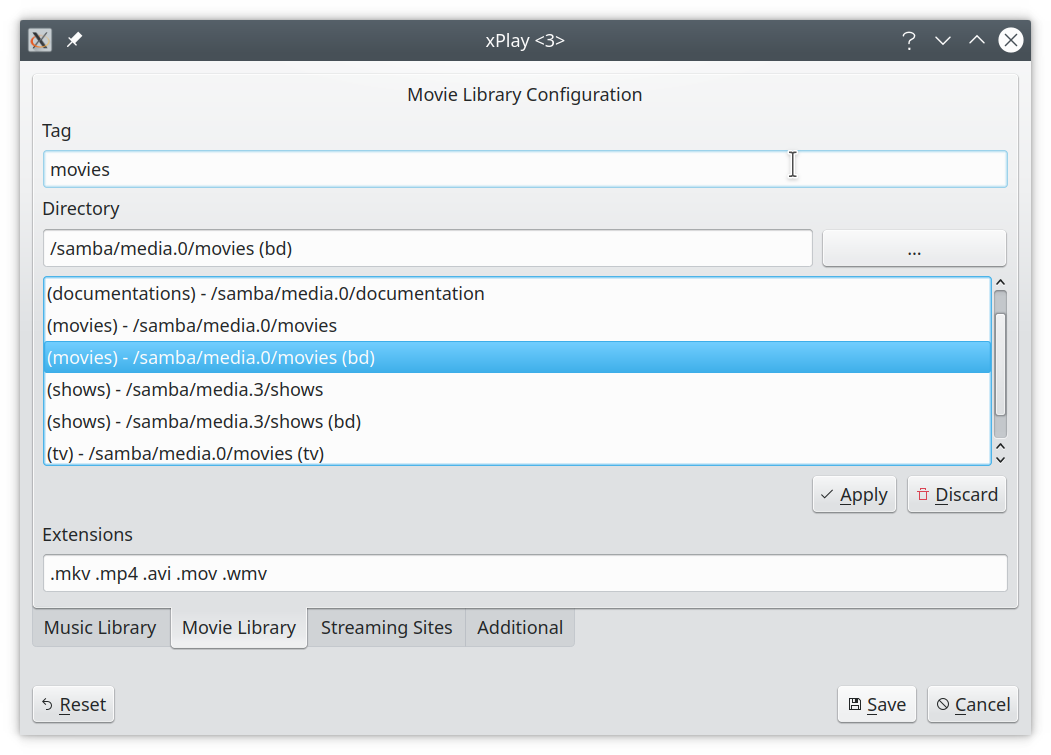
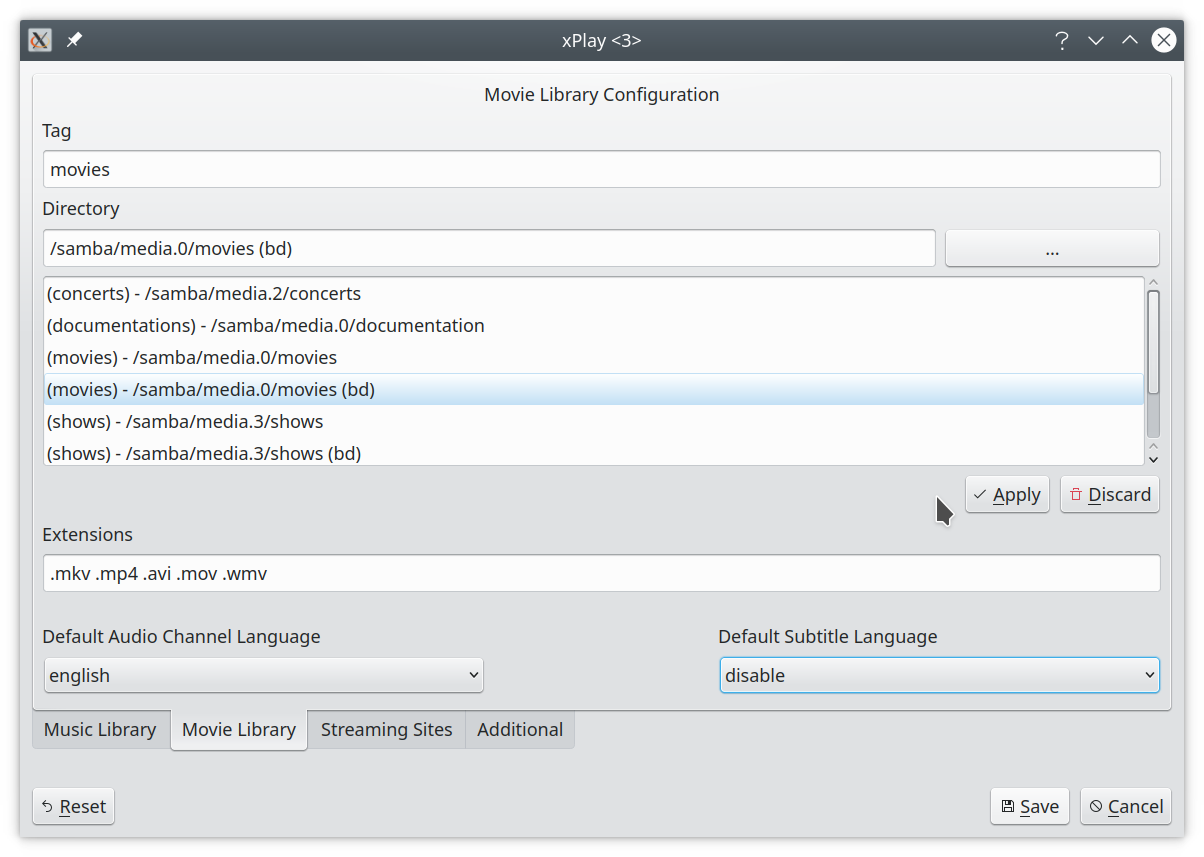
Update CHANGELOG.md and README.md. Update version number.

diff --git a/xPlay.cpp b/xPlay.cpp
@@ -152,7 +152,7 @@ int main(int argc, char* argv[])
 {
     QApplication playApp(argc, argv);
     QApplication::setApplicationName("xPlay");
-    QApplication::setApplicationVersion("0.7.0");
+    QApplication::setApplicationVersion("0.7.1");
     QCommandLineParser playAppParser;
     if (handleCommandLine(playApp, playAppParser)) {
         // Exit if the command line was handled.

diff --git a/README.md b/README.md
@@ -214,11 +214,12 @@ The *Help* menu has two entries displaying copyright information about the used 
 #### Configuration Dialog
 
 The configuration dialog is using QSettings to load and store the xPlay configuration. The directory and
-extensions for the music and the movie library can be configured as well as the sites for the streaming view.
-The Rotel widget can be enabled or disabled and its network configuration can be configured.
-The database overlay for the music and movie view can be configured using individual check boxes. A cut-off
-date can be configured for each database query. If specified then entries with a time stamp before the cut-off
-date are ignored. This features enables the user to e.g. see which movies he has seen in the last month.
+extensions for the music and the movie library can be configured as well as the sites for the streaming view. For
+movies, the default audio and subtitle language can be selected. The Rotel widget can be enabled or disabled and its
+network connection can be configured. The database overlay for the music and movie view can be configured using
+individual check boxes. A cut-off date can be set for each database query. If it is specified then entries with a time
+stamp before the cut-off date are ignored. This features enables the user to e.g. display which movies he has seen 
+the last month.
 
 ![Screenshot Configuration Dialog (Music)](screenshots/xplay_screenshot_configuration_dialog_00.png)
 ![Screenshot Configuration Dialog (Movie)](screenshots/xplay_screenshot_configuration_dialog_01.png)

diff --git a/CHANGELOG.md b/CHANGELOG.md
@@ -1,5 +1,11 @@
 # Changelog
 
+## 0.7.1 - 2021-04-24
+
+- Added limited error handling for music library scanning.
+- Added option for default audio and subtitle language for movies.
+- Minor configuration dialog UI layout fixes.  
+- Clang-tidy fixes.
 
 ## 0.7.0 - 2021-04-06
 
